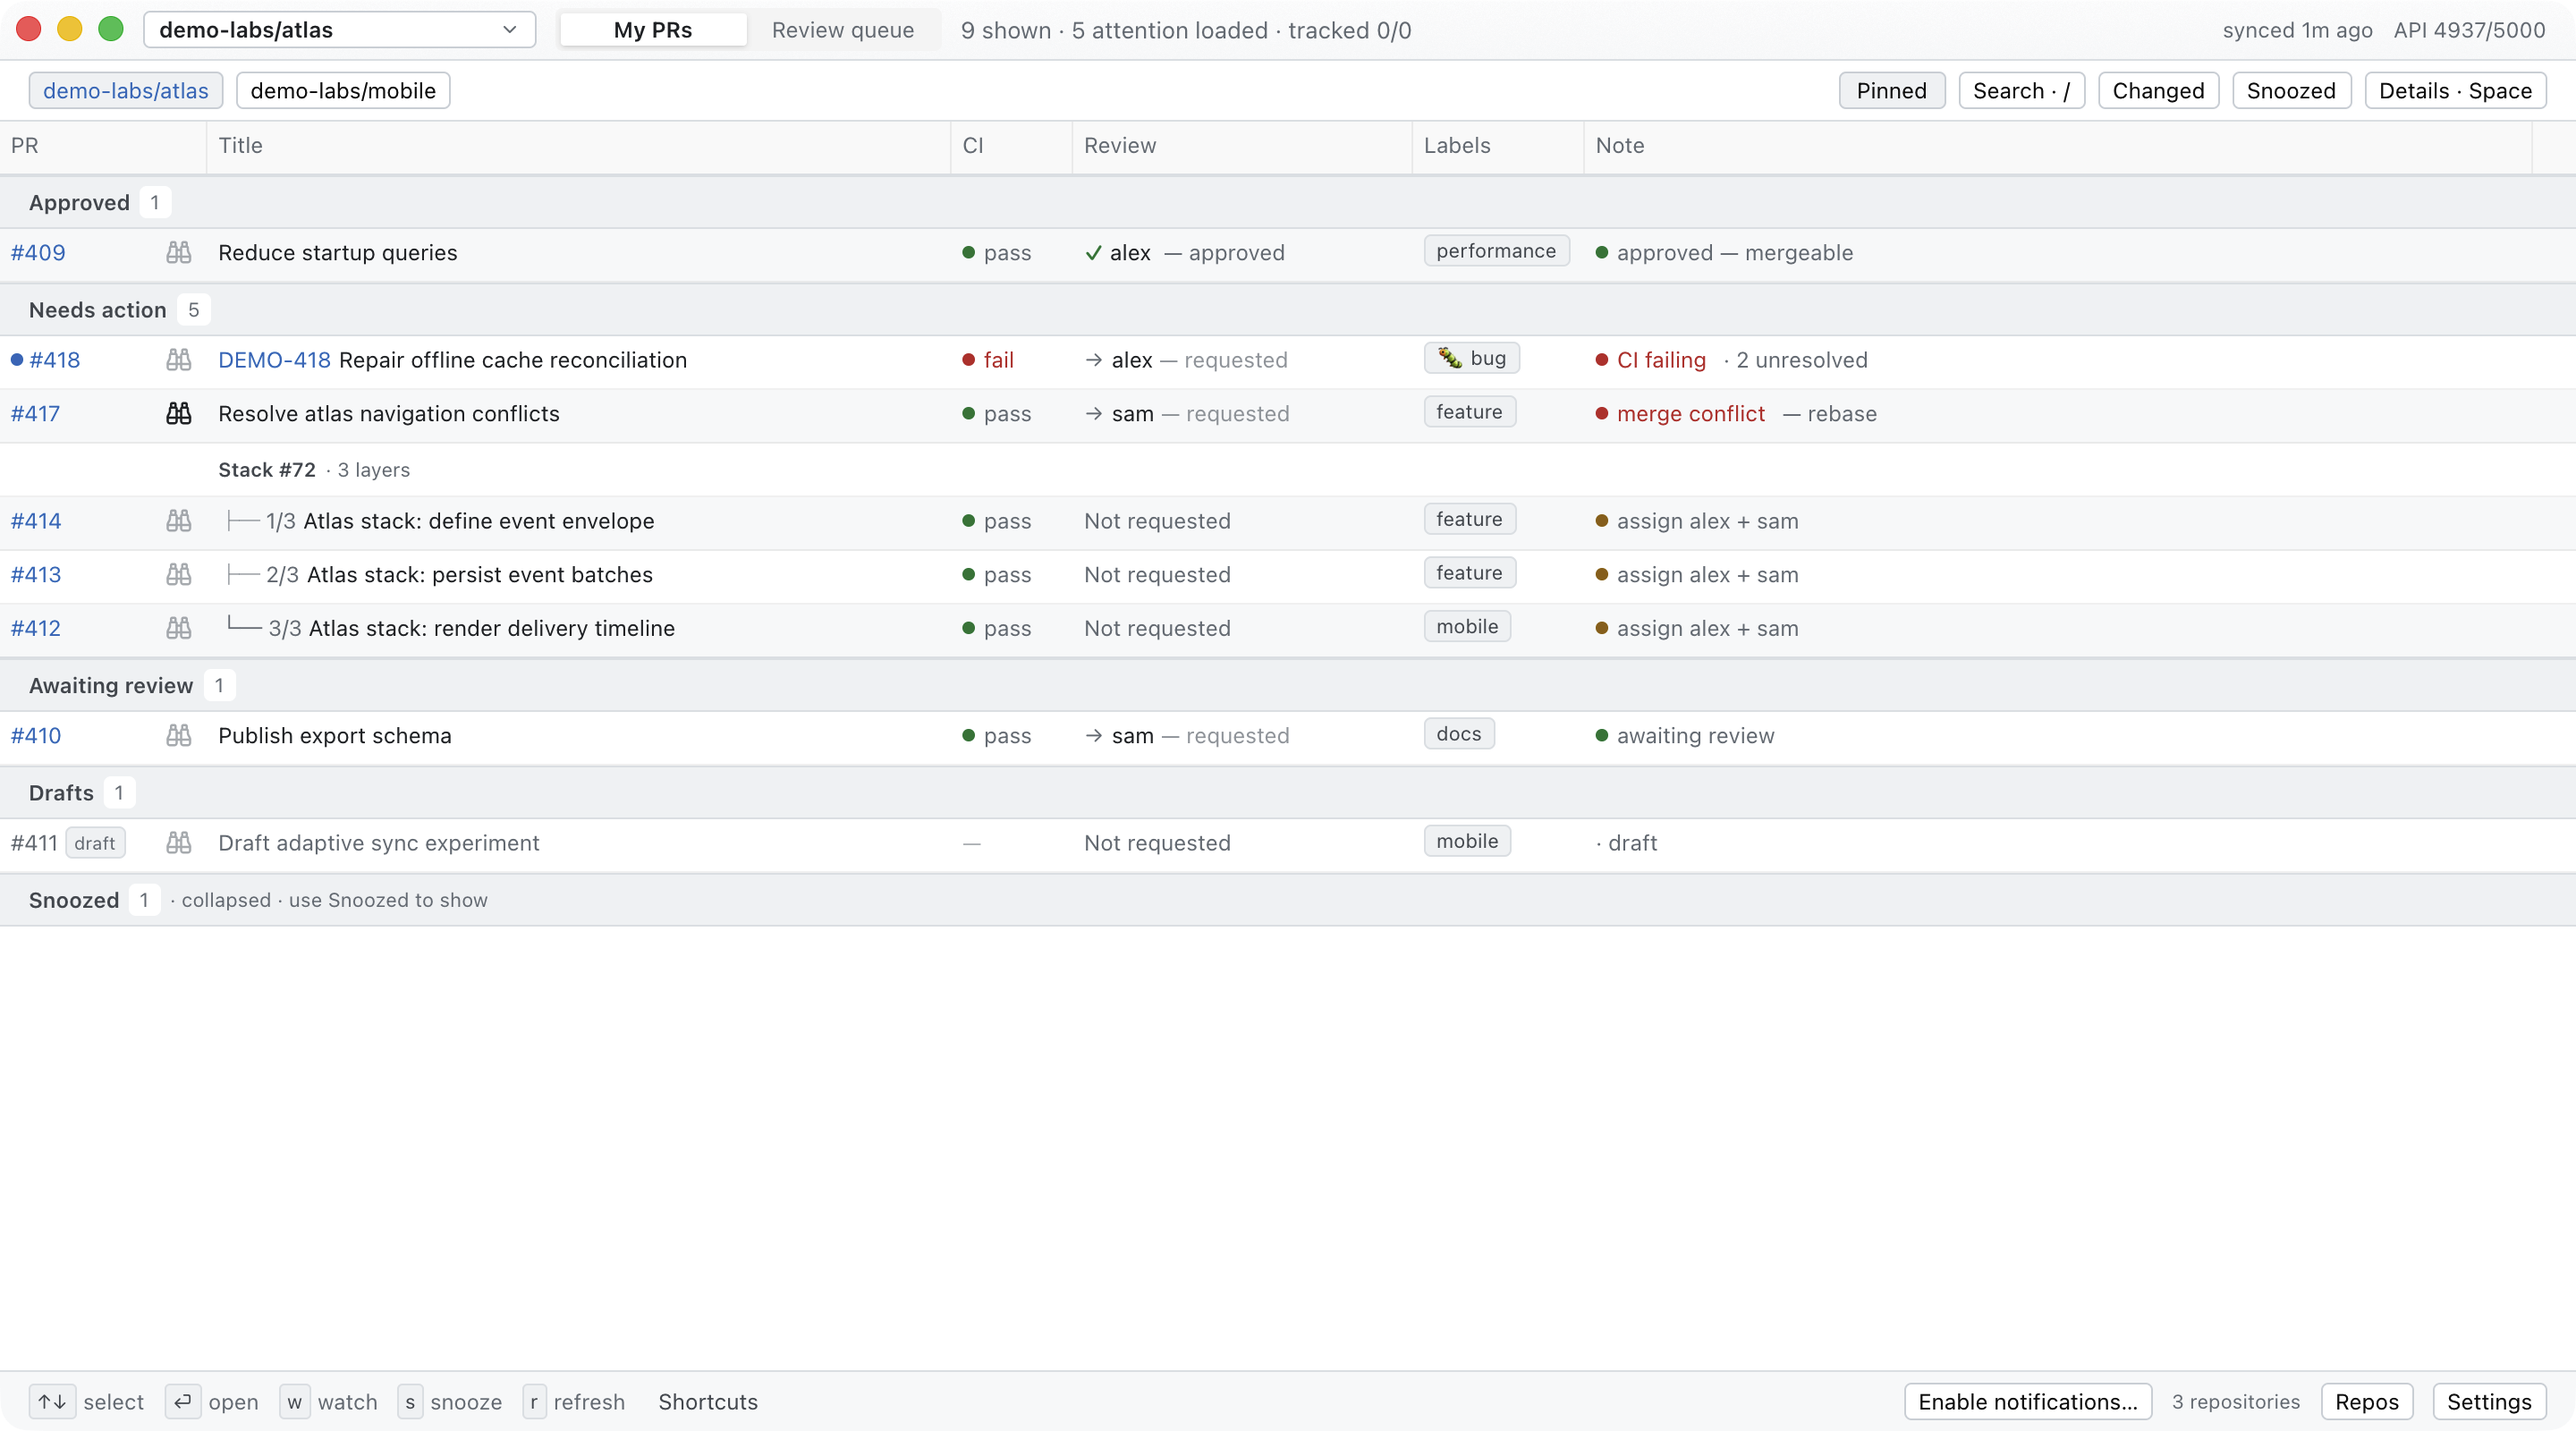
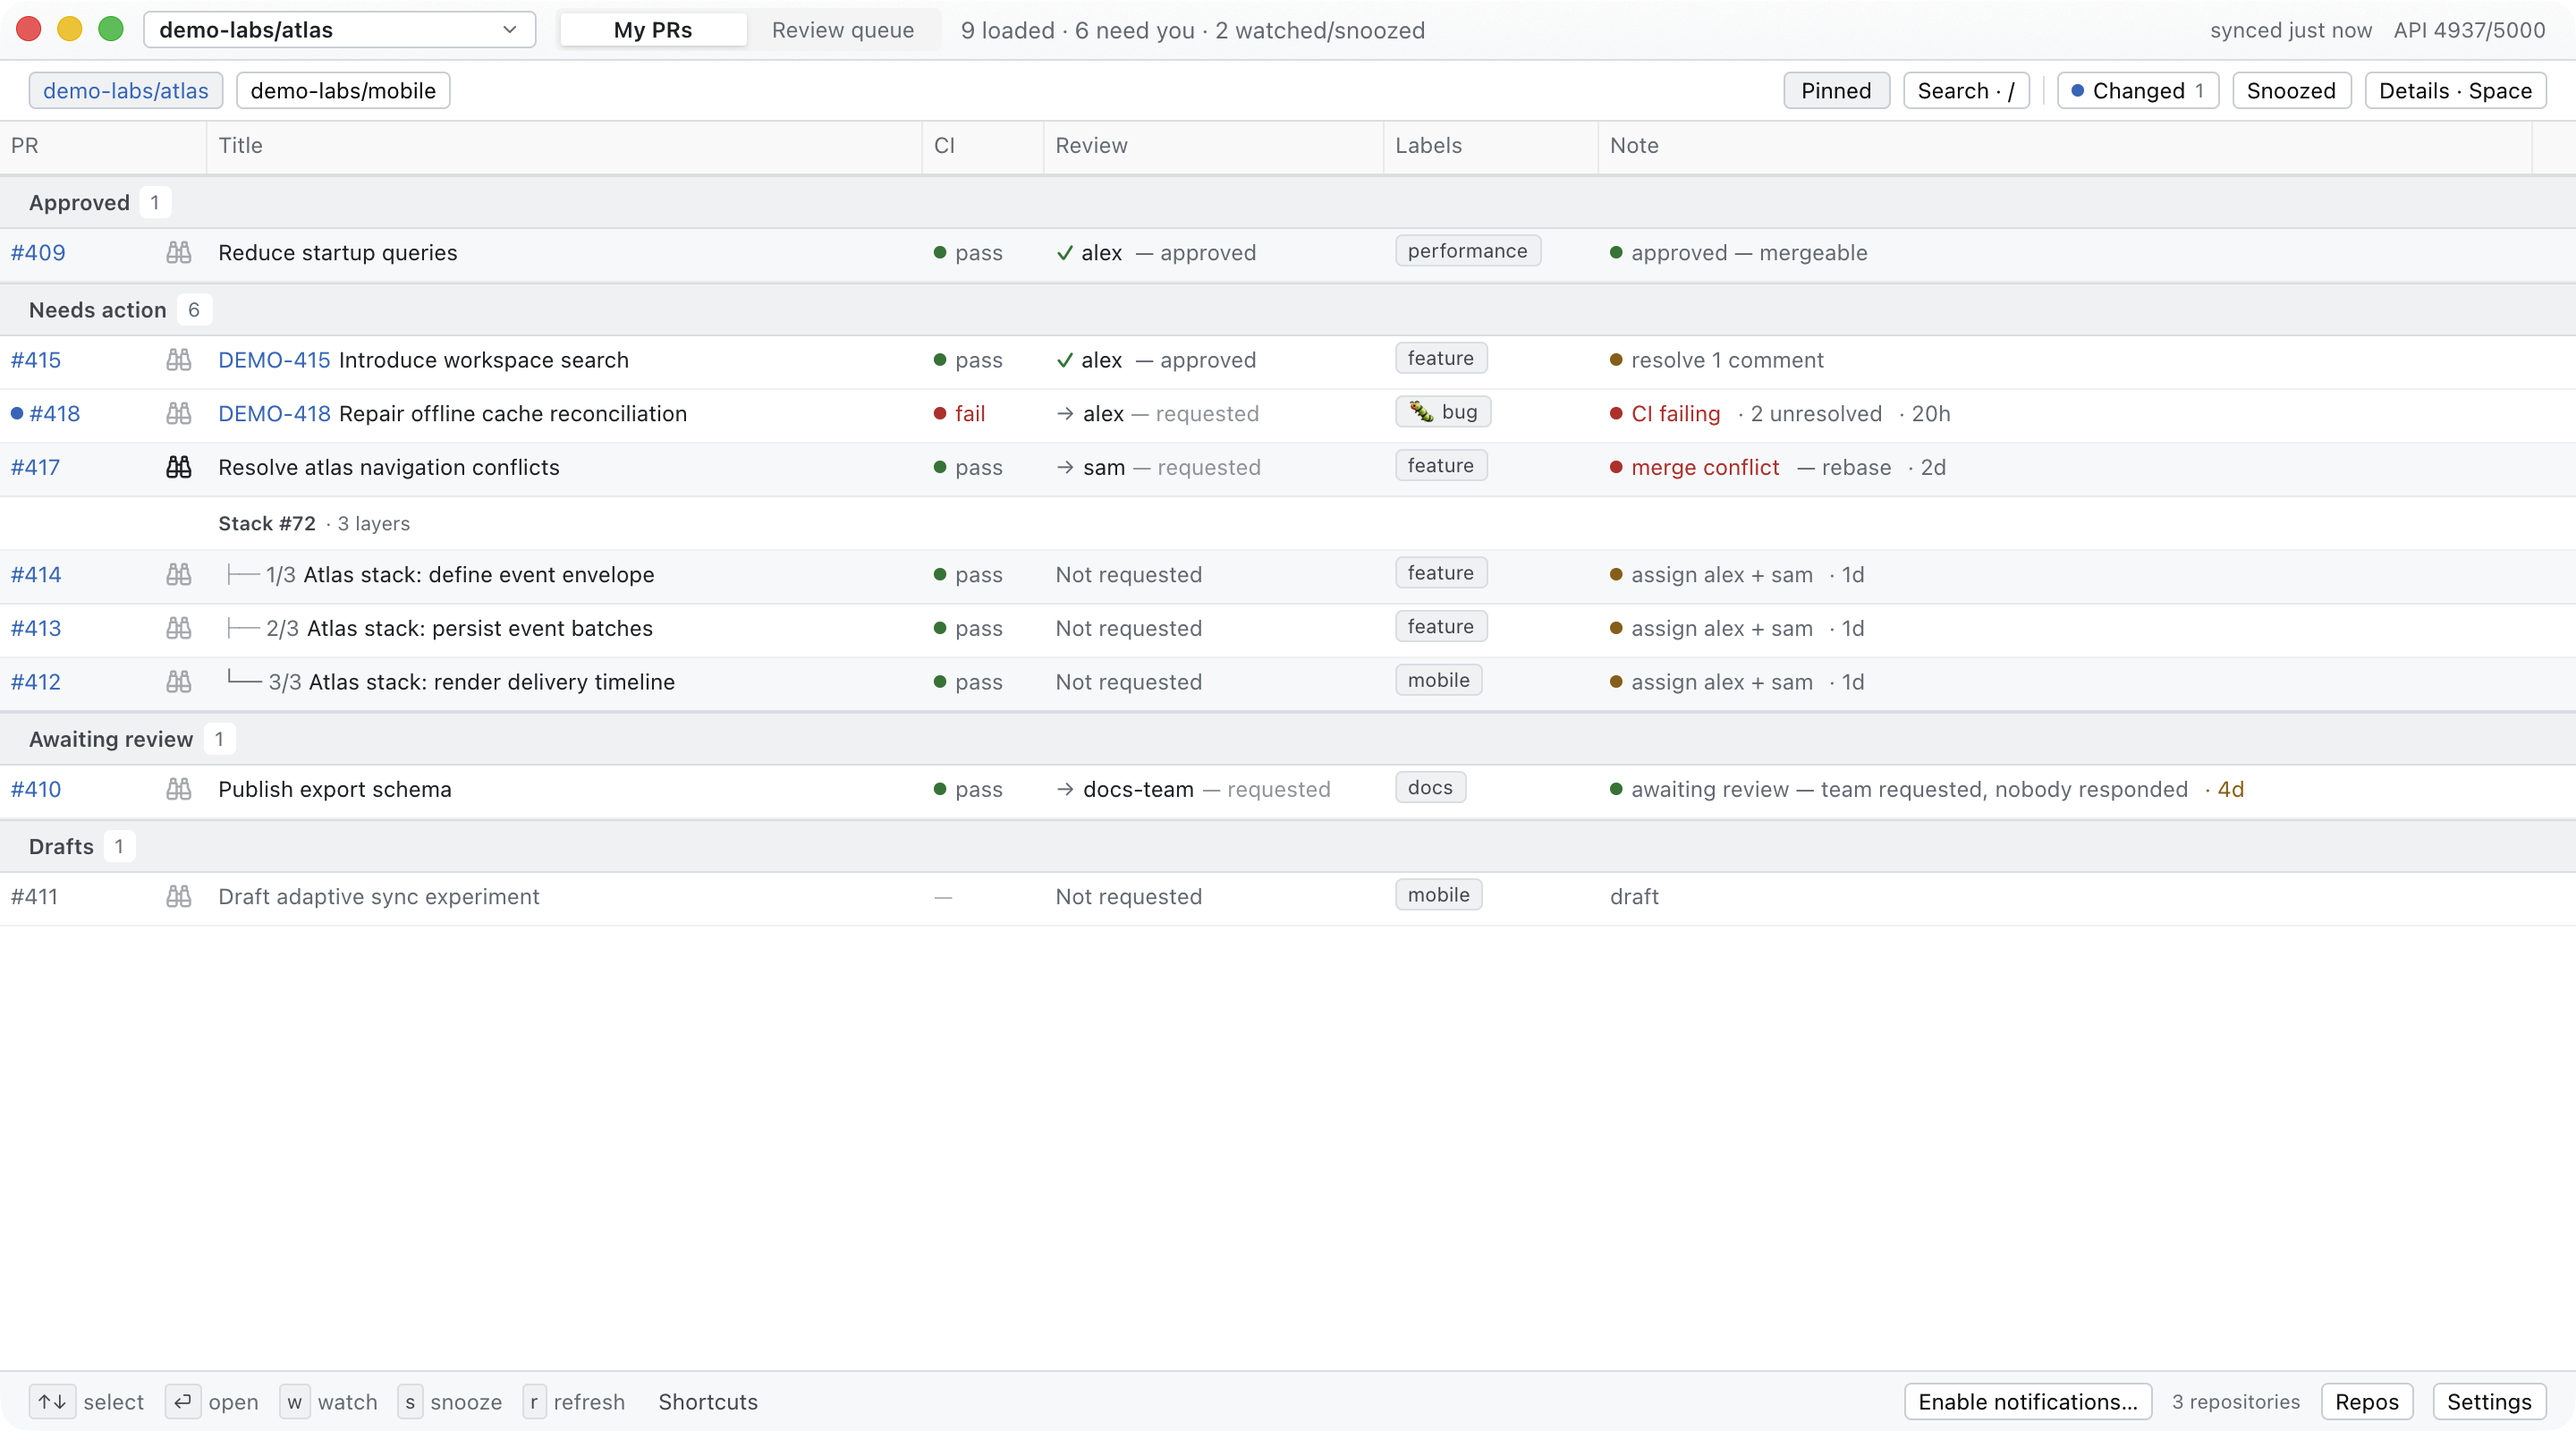
docs: refresh the README screenshots for v0.8.0
Recaptured from the fictional demo data with a release build, at the same
1440x800 light window and demo-labs/atlas scope as before:
- My PRs: the pickup age after each Note, and "team requested, nobody
  responded" with an amber 4d wait.
- Review queue: waits, the Small/Medium/Large size band, and the
  "Smallest first" toggle.
- Details: the panel no longer fits the stack line without scrolling, so
  the caption now says so.
- Settings: shows 0.8.0.
The draft badge is gone from every shot, and the headers count the view on
screen.

Claude-Session: https://claude.ai/code/session_01EJe8bSv59KeMGaXFnaky4i

diff --git a/README.md b/README.md
@@ -320,9 +320,10 @@ file is preserved and reported in the footer rather than overwritten.
 
 ![Selected stacked pull request with its reviewer, label, and stack-layer details](assets/screenshots/pr-details.png)
 
-*Select a row and open Details to inspect its loaded metadata, including the
-stack layer and base branch. This example uses fictional data; opening the
-panel makes no additional GitHub request.*
+*Select a row and open Details to inspect its loaded metadata: labels, the
+Note, author, CI, reviewers, and reviews. Scroll the panel for the rest,
+including the stack layer and base branch. This example uses fictional data;
+opening the panel makes no additional GitHub request.*
 
 ## Terminal and agent CLI
 
